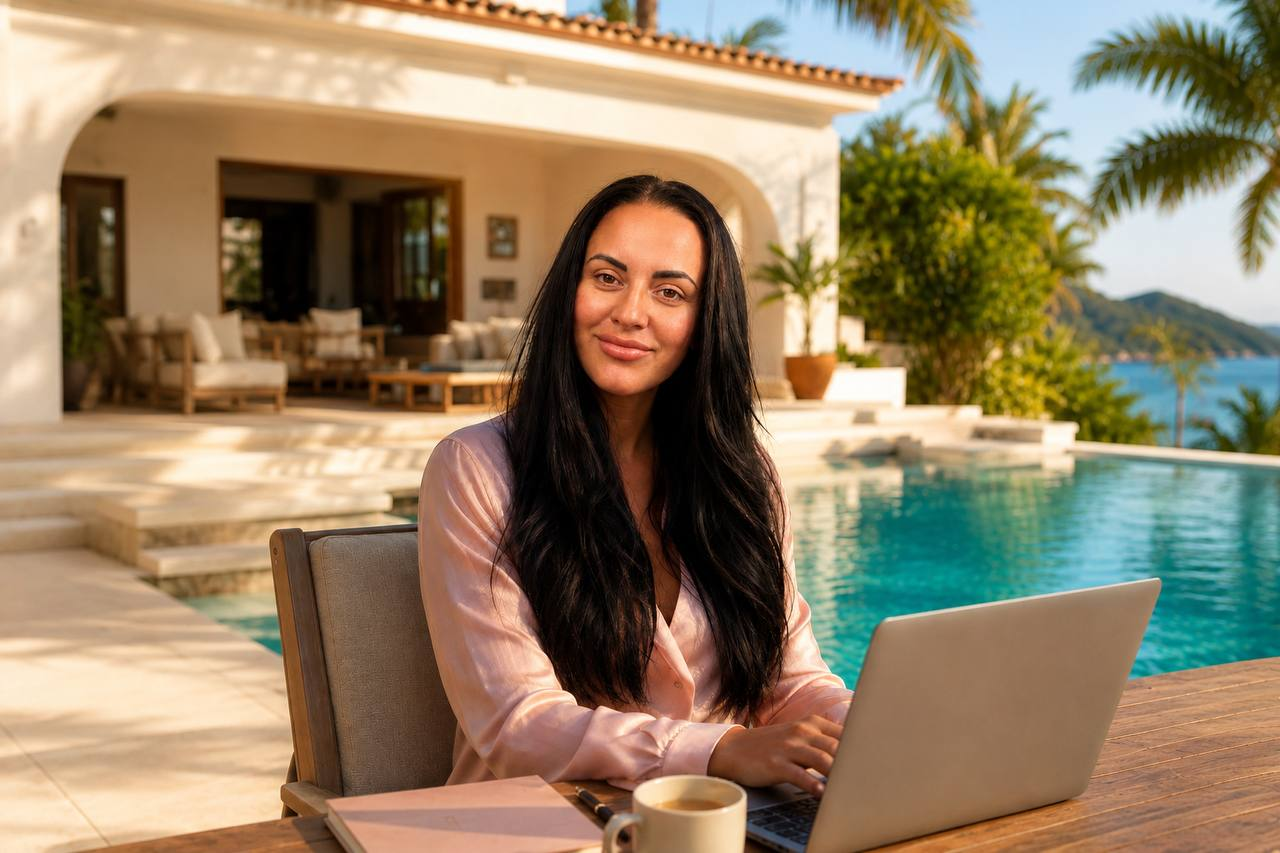
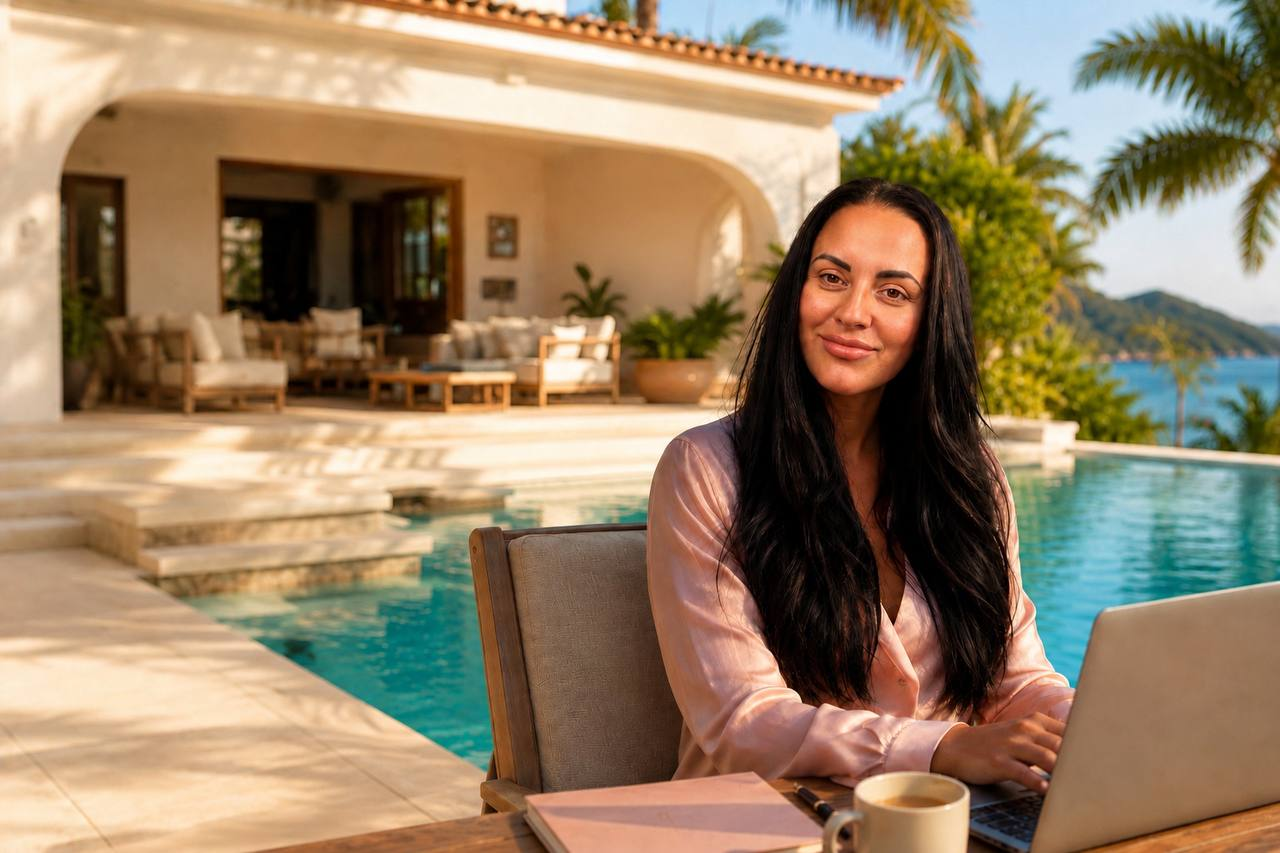
refactor landing hero section content and layout

diff --git a/src/pages/LandingPage.tsx b/src/pages/LandingPage.tsx
@@ -128,7 +128,7 @@ const handleSubmit = async (e: FormEvent<HTMLFormElement>) => {
       position: "absolute",
       inset: 0,
       background:
-        "linear-gradient(90deg, rgba(255,244,232,0.88) 0%, rgba(255,244,232,0.92) 32%, rgba(255,244,232,0.45) 48%, rgba(255,244,232,0.05) 68%, rgba(255,244,232,0) 100%)",
+        "linear-gradient(90deg, rgba(255,244,232,0.9) 0%, rgba(255,244,232,0.7) 15%, rgba(255,244,232,0.2) 28%, rgba(255,244,232,0) 40%)",
       zIndex: 1,
     }}
   />
@@ -150,10 +150,10 @@ const handleSubmit = async (e: FormEvent<HTMLFormElement>) => {
   >
     <div>
       <div style={{ fontSize: isMobile ? 36 : 52, fontWeight: 800, color: "#B8895A", lineHeight: 1 }}>
-        Татьяна Рыбко
+
       </div>
       <div style={{ marginTop: 18, fontSize: isMobile ? 22 : 28, fontWeight: 600, color: "#B8895A" }}>
-        партнер MetaBox
+
       </div>
     </div>
 
@@ -166,11 +166,10 @@ const handleSubmit = async (e: FormEvent<HTMLFormElement>) => {
       }}
     >
       <a href="#about" style={{ color: "#FFFFFF", textDecoration: "none" }}>
-        обо мне
       </a>
 
       <a href="#contacts" style={{ color: "#FFFFFF", textDecoration: "none" }}>
-        контакты
+
       </a>
     </nav>
   </div>
@@ -195,11 +194,11 @@ const handleSubmit = async (e: FormEvent<HTMLFormElement>) => {
         letterSpacing: "-1px",
       }}
     >
-      ЖИЗНЬ,
+      КОГДА КАЖЕТСЯ,
       <br />
-      КОТОРУЮ ВЫ
+      ЧТО ПОРА
       <br />
-      СОЗДАЕТЕ.
+      ЧТО-ТО МЕНЯТЬ
     </h1>
 
     <p
@@ -212,28 +211,37 @@ const handleSubmit = async (e: FormEvent<HTMLFormElement>) => {
         fontWeight: 500,
       }}
     >
-      ЗАРАБОТОК
+      Для мам в декрете.
       <br />
-      ОНЛАЙН
+      Для тех, кто ищет дополнительный доход.
       <br />
-      БЕЗ ОПЫТА
+      Для тех, кто хочет работать удалённо.
+      <br />
+      Для тех, кто понимает, что будущее уже меняется — и хочет
+      <br />
+      успеть занять в нём своё место.
+
     </p>
 
     <p
       style={{
         margin: "28px 0 0",
         maxWidth: isMobile ? 260 : 520,
-        fontSize: isMobile ? 14 : 18,
-        lineHeight: 1.7,
-        color: "#8B5A2B",
+        fontWeight: 500,
+        fontSize: isMobile ? 15: 20,
+        lineHeight: 1.8,
+        color: "#6B4226",
       }}
     >
-      В экосистеме MetaBox доступны обучающие курсы, современные AI-инструменты для работы и внутренняя биржа труда.
+      <em>Поделюсь своим опытом перехода
       <br />
-      Даже если раньше вы не работали с технологиями,
+      в новую онлайн-сферу.
+      <br />
+     Покажу направления, которые сегодня
+     осваивают обычные люди без опыта.
+      </em>
 
-      <br />
-      здесь можно освоить новые навыки шаг за шагом и открыть для себя дополнительные возможности для заработка.
+
     </p>
 
     <div
@@ -245,47 +253,9 @@ const handleSubmit = async (e: FormEvent<HTMLFormElement>) => {
         flexWrap: "wrap",
       }}
     >
-      <a
-        href="#contacts"
-        style={{
-          display: "inline-block",
-          background: "#B8895A",
-          color: "#FFFFFF",
-          textDecoration: "none",
-          borderRadius: 10,
-          padding: "16px 28px",
-          fontWeight: 700,
-          fontSize: 17,
-          border: "none",
-          width: isMobile ? "100%" : "auto",
-          boxSizing: "border-box",
-          textAlign: "center",
-        }}
-      >
-        📞 Получить консультацию
-      </a>
 
-      <a
-        href="https://t.me/rybka_yara"
-        target="_blank"
-        rel="noreferrer"
-        style={{
-          display: "inline-block",
-          background: "rgba(255,255,255,0.65)",
-          color: "#9A6A3A",
-          textDecoration: "none",
-          borderRadius: 10,
-          padding: "16px 28px",
-          fontWeight: 700,
-          fontSize: 17,
-          border: "1px solid #B8895A",
-          width: isMobile ? "100%" : "auto",
-          boxSizing: "border-box",
-          textAlign: "center",
-        }}
-      >
-        Написать в Telegram
-      </a>
+
+
     </div>
   </div>
 </section>

diff --git a/public/googlecdaf69ec227a1461.html b/public/googlecdaf69ec227a1461.html
@@ -1,1 +1,1 @@
-google-site-verification: googlecdaf69ec227a1461.html
+'Ґgoogle-site-verification: googlecdaf69ec227a1461.html
